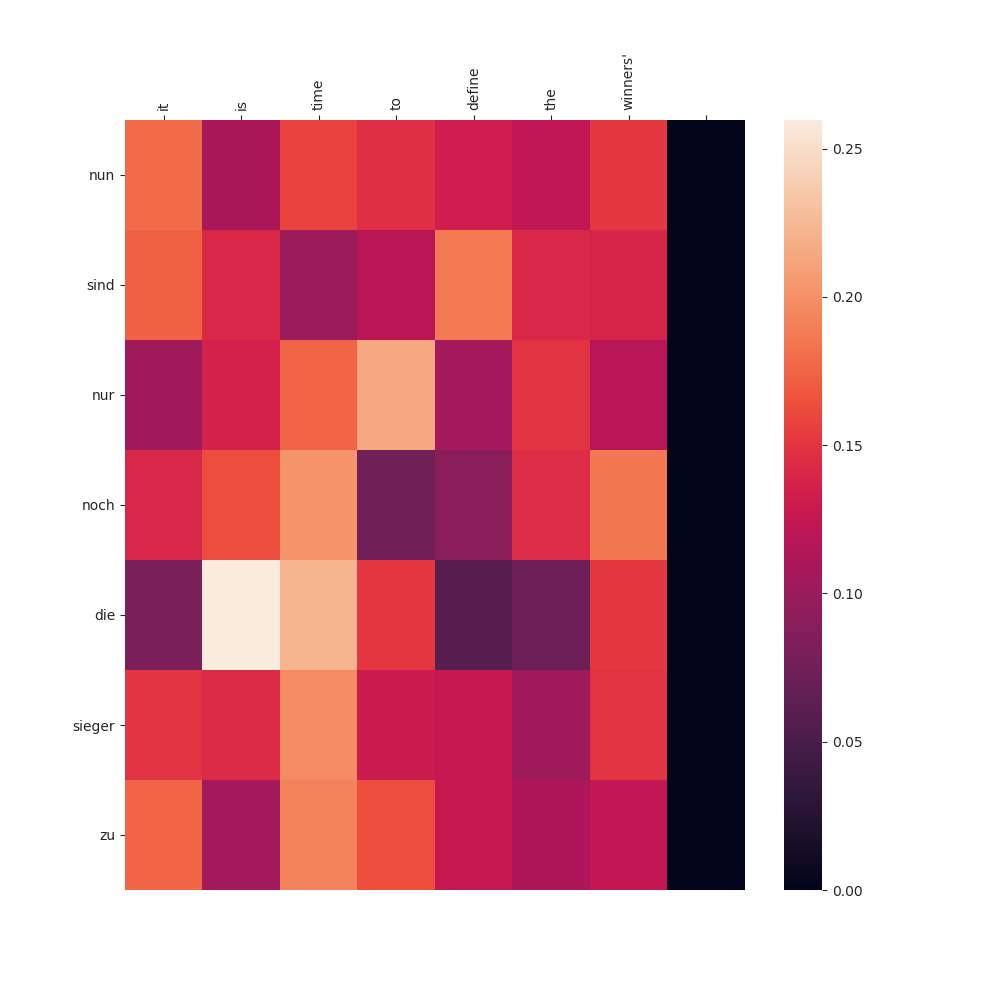
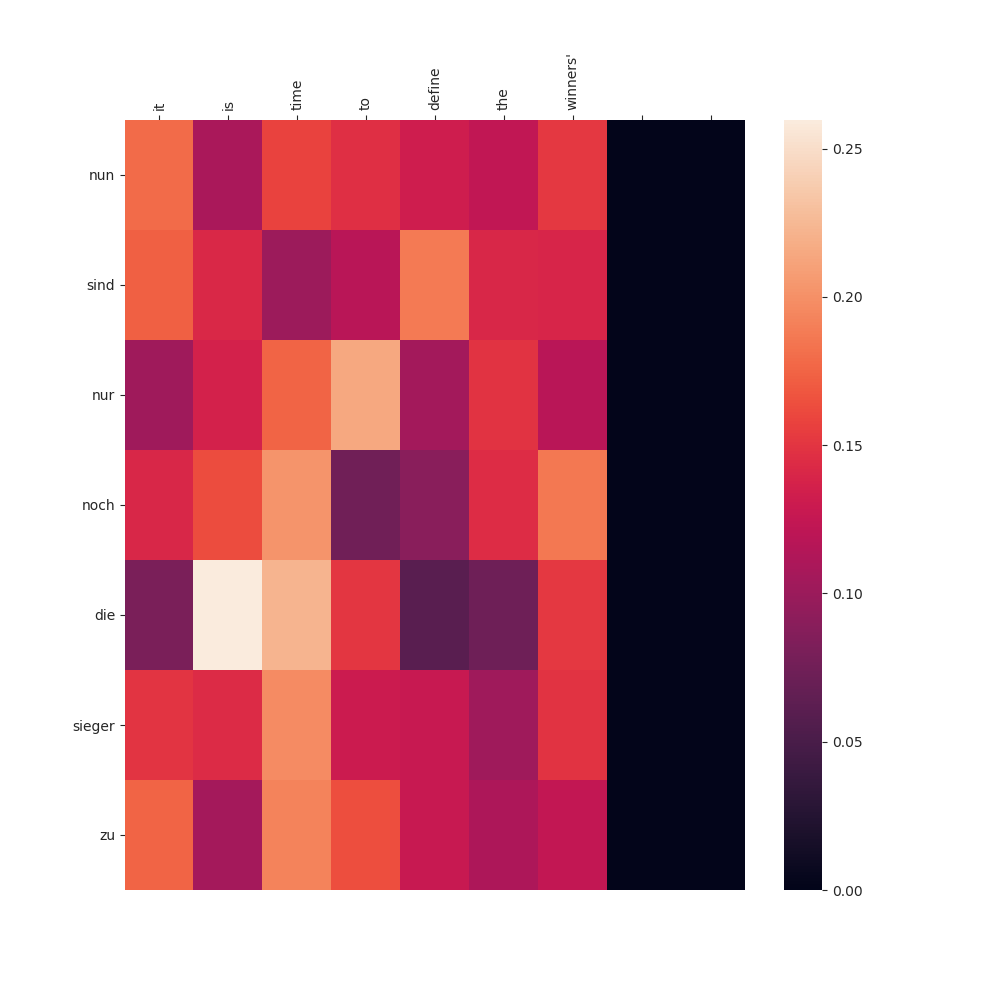
minor updates

diff --git a/transformer.py b/transformer.py
@@ -322,18 +322,18 @@ def show_clearly(idx_seq, vocab):
             temp.append(word)
     return ' '.join(temp).encode('ascii', 'ignore')
 
-def show_attn(attn_name, data_num, attns, input_seq, pred_seq):
+def show_attn(attn_name, data_num, attns, input_seq, pred_seq, sample_num):
     fig = plt.figure(figsize=(10, 10))
     sns.set_style("ticks",{"xtick.major.size":7, "ytick.major.size":7})
     attns = Variable(attns).cpu()
     attn = attns[data_num][0].data.numpy()
     input_seq = input_seq.split(' ')
     pred_seq = pred_seq.split(' ')
-    g = sns.heatmap(attn[:len(input_seq), :len(pred_seq)])
+    g = sns.heatmap(attn[:len(input_seq), :len(pred_seq)+1])
     g.set_xticklabels(input_seq, rotation=90)
     g.set_yticklabels(pred_seq, rotation=0)
     g.xaxis.tick_top()
-    plt.savefig('results/%s_attn.png' %(attn_name))
+    plt.savefig('results/%s_attn-%d.png' %(attn_name, sample_num))
 
 """[Pipeline]"""
 def main():
@@ -435,9 +435,11 @@ def main():
     target_seq = str(show_clearly(dec_inputs[data_num], de_vocab))[2:]
     pred_seq = str(show_clearly(predict[data_num].data.max(1, keepdim=True)[1], de_vocab))[2:]
     print('(I)', input_seq, '\n(T)', target_seq,'\n(P)', pred_seq)
-    show_attn('enc_self', data_num, enc_self_attns[5], input_seq, pred_seq)
-    show_attn('dec_self', data_num, dec_self_attns[5], input_seq, pred_seq)
-    show_attn('dec_combo', data_num, dec_combo_attns[5], input_seq, pred_seq)
+    
+    sample_num = len(os.listdir('results'))/3
+    show_attn('enc_self', data_num, enc_self_attns[5], input_seq, pred_seq, sample_num)
+    show_attn('dec_self', data_num, dec_self_attns[5], input_seq, pred_seq, sample_num)
+    show_attn('dec_combo', data_num, dec_combo_attns[5], input_seq, pred_seq, sample_num)
     print('\nAttention Graphs are created. Check \'results\' directory.')
 
 main()
